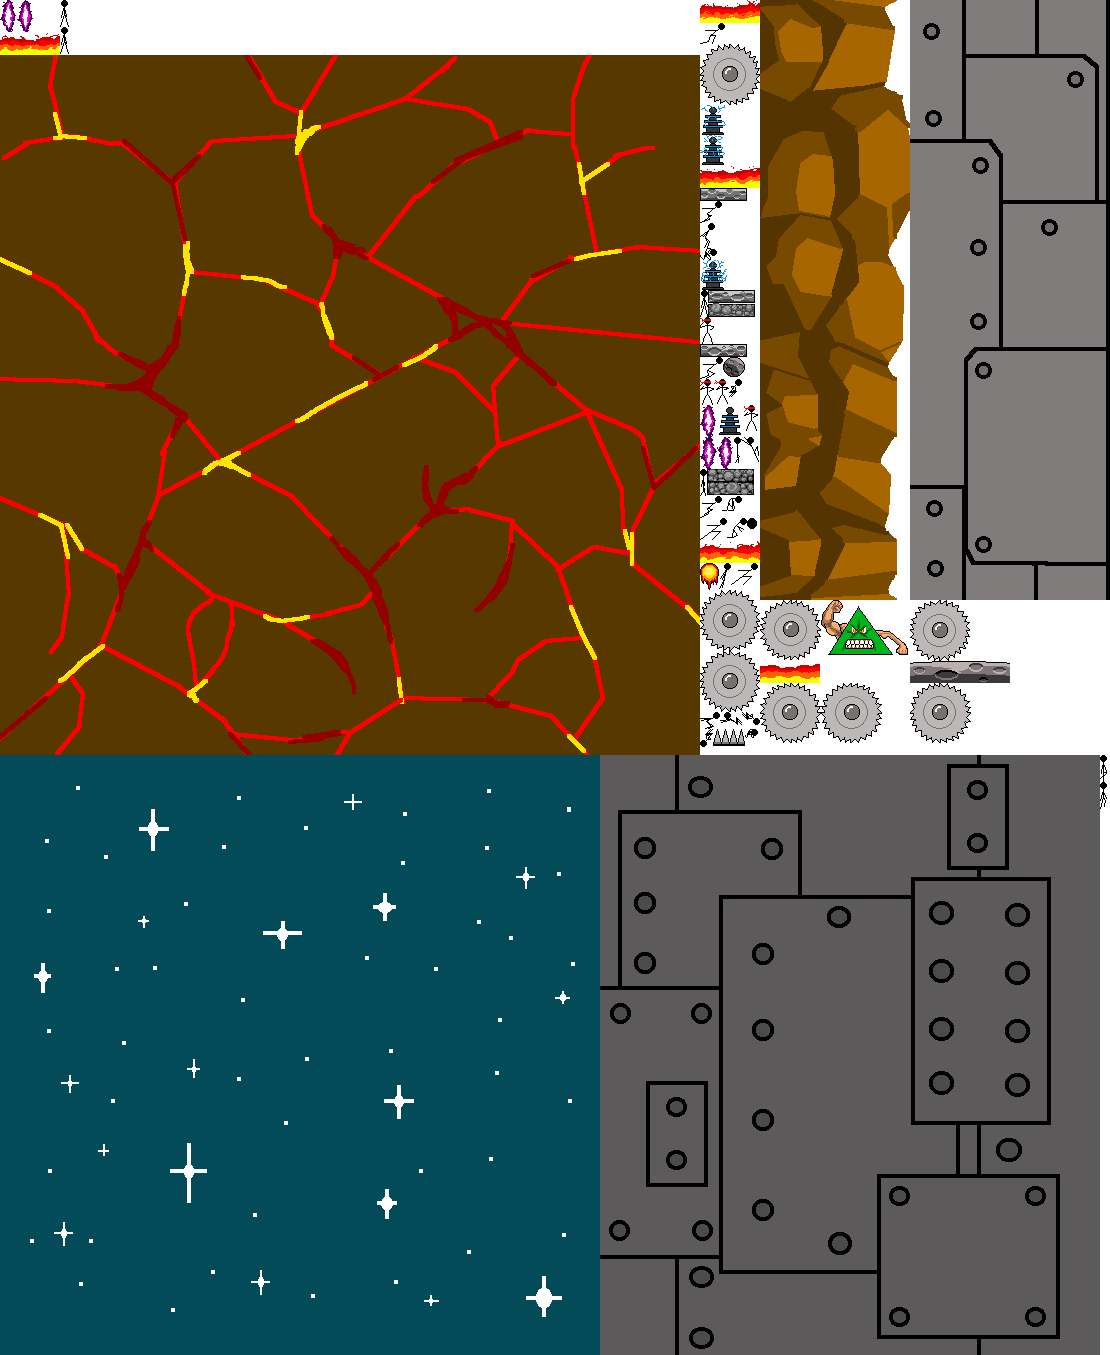
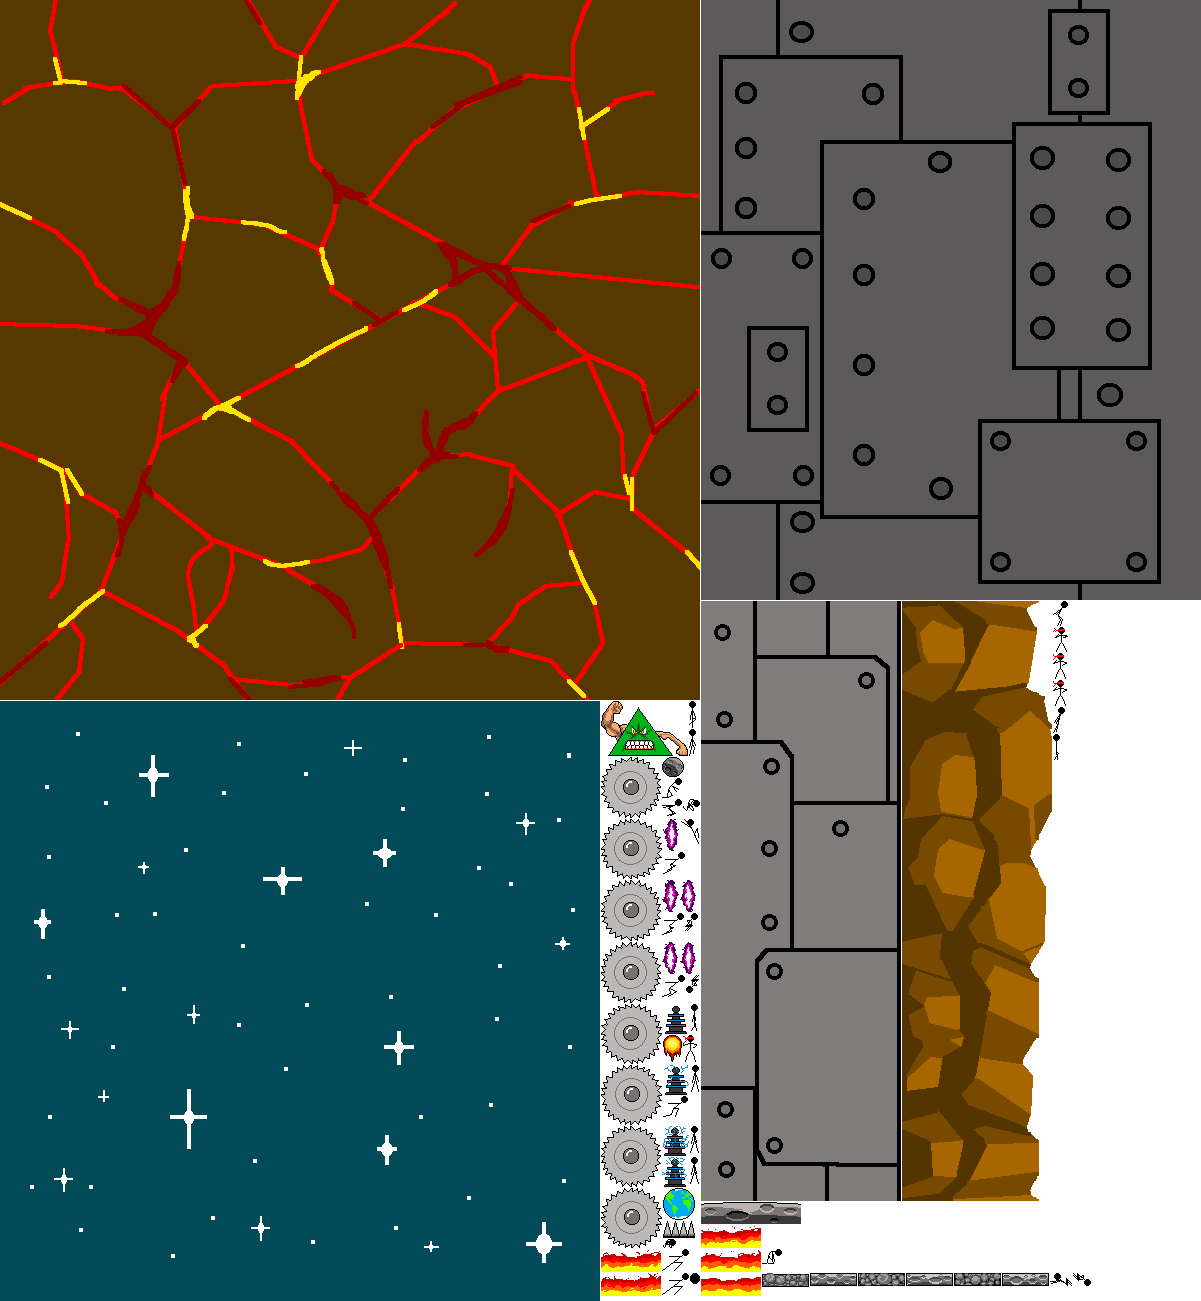
Added planet graphic, fixed repeated landing noise glitch

diff --git a/js/game/states/skeletons/planet_level.js b/js/game/states/skeletons/planet_level.js
@@ -3,9 +3,10 @@ define(['game/keyDown', 'game/states/skeletons/portal', 'game/states/skeletons/s
     'util/functional', 'util/vectorMath'],
 function (keyDown, portal, spacebg, triangle, fireball, F, VM) {return {
     spawnPlanet: function () {
-        let planet = this.groups.solids.create(Math.random()*this.game.width, -100, 'atlas', 'asteroid');
+        let planet = this.groups.solids.create(Math.random()*this.game.width, -100, 'atlas', 'planet');
+        planet.tint = Math.floor(Math.random()*(0xf - 0x7))*0x111111 + 0x777777;
         planet.anchor.setTo(0.5, 0.5);
-        planet.scale.setTo(1 + Math.random()*4);
+        planet.scale.setTo(0.5 + Math.random()*4);
         planet.body.setCircle(planet.width/(2*planet.scale.x));
         planet.body.immovable = true;
         planet.body.velocity.y = (1 + Math.random())*100;
@@ -16,7 +17,7 @@ function (keyDown, portal, spacebg, triangle, fireball, F, VM) {return {
     create: function () {
         this.game.audiosprite.play('bgm-moon');
         this.game.physics.startSystem(Phaser.Physics.ARCADE);
-
+        this.turnOffLightLanding = true; // avoid annoying glitch whenn player lands repeatedly
         this.addSkel(fireball);
         this.addSkel(spacebg);
         this.spacebgspeed = -7;

diff --git a/js/game/states/skeletons/player.js b/js/game/states/skeletons/player.js
@@ -35,6 +35,7 @@ function (game, keyDown, fadeOut, F, VM) {return {
         this.relspeeds = {};
         // Fix problem with rapidly switching animations
         this.timeSinceOnGround = 1;
+        this.turnOffLightLanding = false; // for annoying bippity boop glitch
     },
     playerUpdateBodySize: function () {
         this.player.body.setSize(16, 16,
@@ -183,7 +184,8 @@ function (game, keyDown, fadeOut, F, VM) {return {
         let hardness = this.relspeeds.down*VM.magnitude(this.player.body.velocity);
         if (hardness > 600)
             this.game.audiosprite.play('hard-land');
-        else if (hardness > 100) this.game.audiosprite.play('land', 0.6);
+        else if (hardness > 100 && !this.turnOffLightLanding)
+            this.game.audiosprite.play('land', 0.6);
         // avoid thok-thok-thok glitch by not making a sound at all if we landed really lightly
     },
     playerDoForceLanding: function () {

diff --git a/js/main.js b/js/main.js
@@ -21,6 +21,6 @@ function (functionCaller, setup, titleScreen,
         * the groups skeleton (which makes sure the state has a 'groups' property)
         * the player skeleton (which adds the player character)
         * the playertest skeleton (which adds the silly little test room) */
-    LevelOrder.order = [tutorial, rainLevel, playertest, spaceLevel, sideToSide, planetLevel];
+    LevelOrder.order = [tutorial, planetLevel, rainLevel, playertest, spaceLevel, sideToSide, planetLevel];
     setup('functionCaller', titleScreen);
 });
